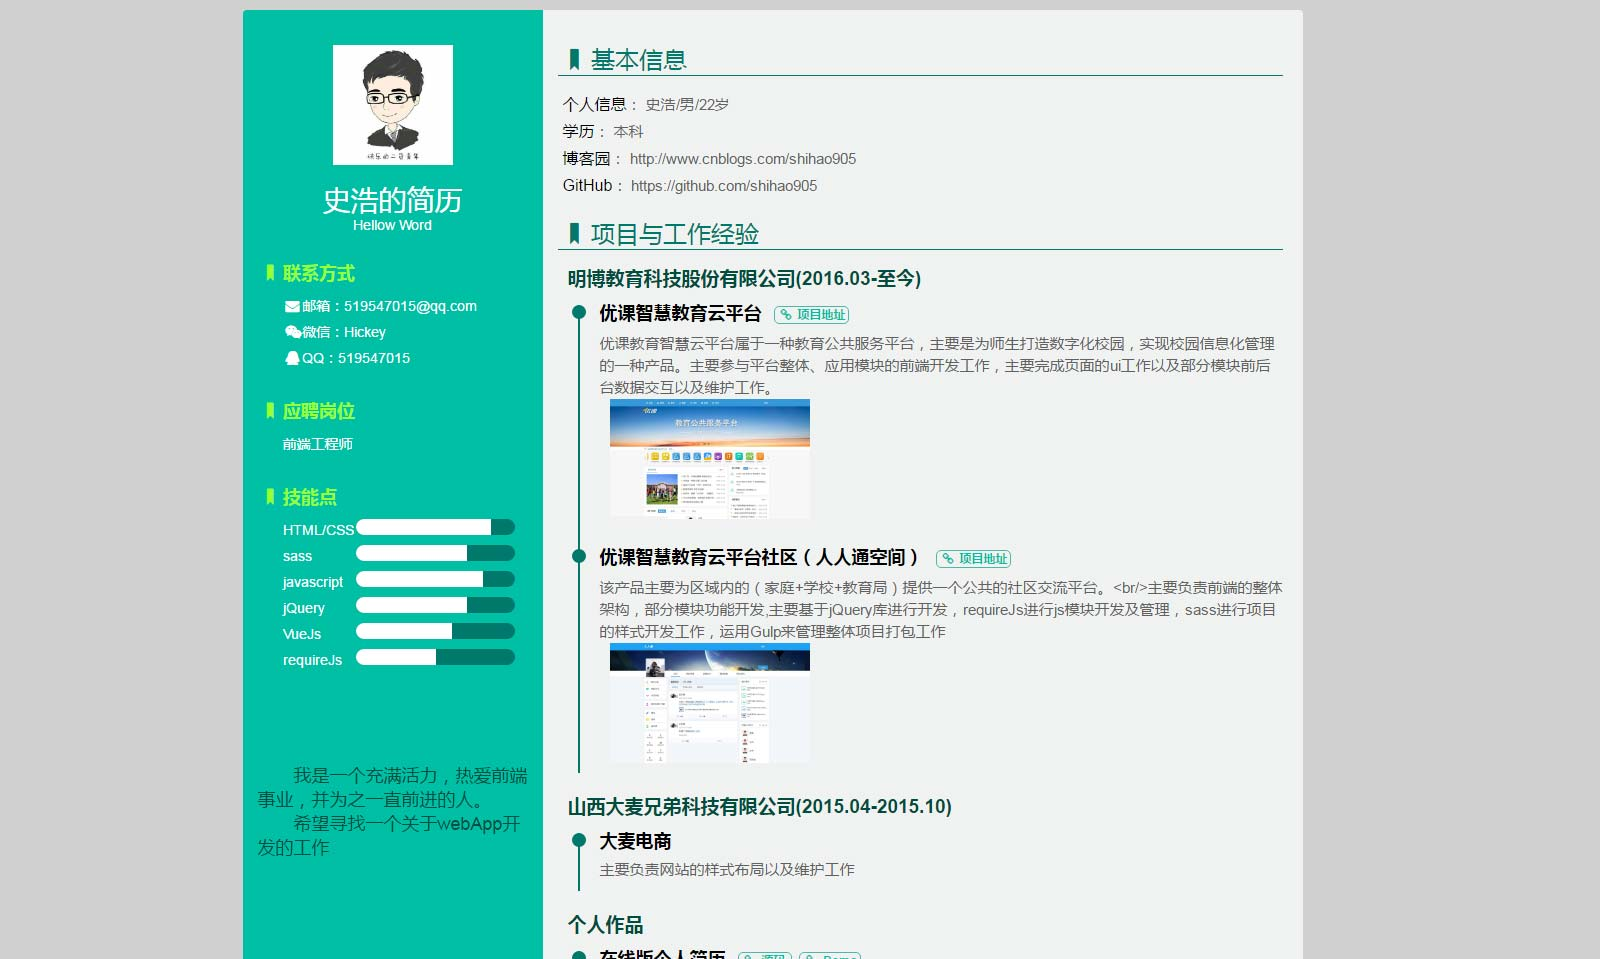
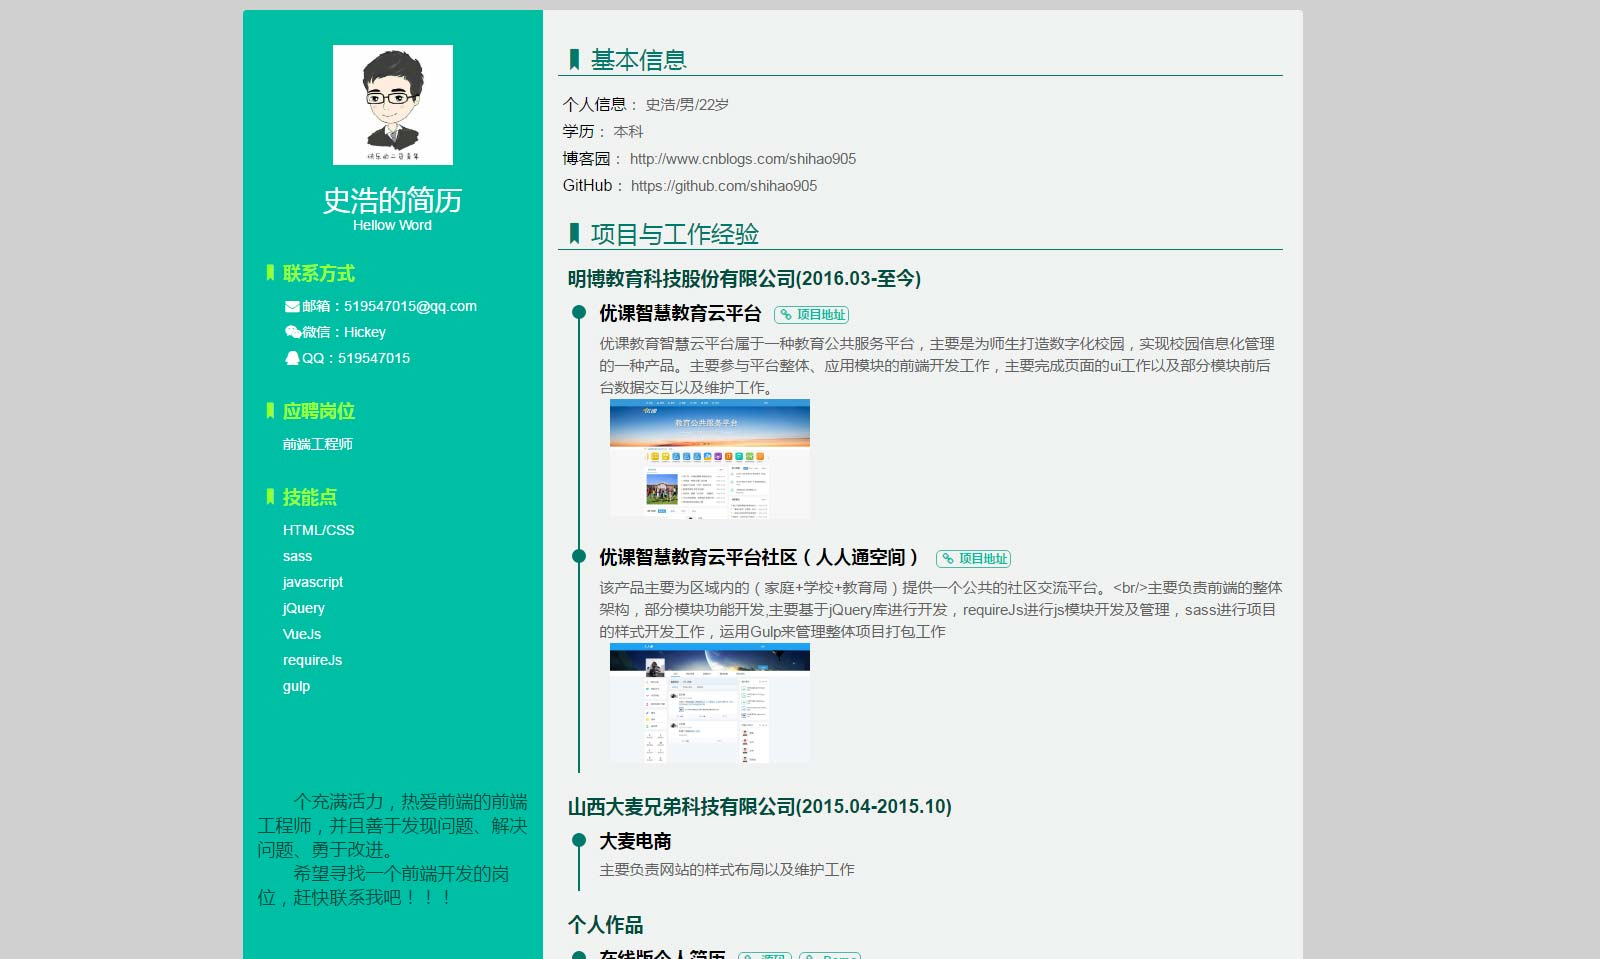
change cv

Changed region(s): [[0.1562, 0.7862, 0.3438, 0.9677], [0.2188, 0.5141, 0.3438, 0.6955], [0.1562, 0.6955, 0.1875, 0.7258]]

diff --git a/dist/js/json.min.js b/dist/js/json.min.js
@@ -1,1 +1,1 @@
-var hickey_json={infor:{cvName:"史浩的简历",description:"Hellow Word",job:"前端工程师"},inforList:[{title:"个人信息",msg:"史浩/男/22岁"},{title:"学历",msg:"本科"},{title:"博客园",msg:"http://www.cnblogs.com/shihao905",url:"http://www.cnblogs.com/shihao905"},{title:"GitHub",msg:"https://github.com/shihao905",url:"https://github.com/shihao905"}],contactMe:[{className:{"icon-mail-alt":!0},title:"邮箱",address:"519547015@qq.com"},{className:{"icon-wechat":!0},title:"微信",address:"Hickey"},{className:{"icon-qq":!0},title:"QQ",address:"519547015"}],skill:[{title:"HTML/CSS",length:"85%"},{title:"sass",length:"70%"},{title:"javascript",length:"80%"},{title:"jQuery",length:"70%"},{title:"VueJs",length:"60%"},{title:"requireJs",length:"50%"}],note:["我是一个充满活力，热爱前端事业，并为之一直前进的人。","希望寻找一个关于webApp开发的工作"],project:[{type:"明博教育科技股份有限公司(2016.03-至今)",list:[{name:"优课智慧教育云平台",msg:"优课教育智慧云平台属于一种教育公共服务平台，主要是为师生打造数字化校园，实现校园信息化管理的一种产品。主要参与平台整体、应用模块的前端开发工作，主要完成页面的ui工作以及部分模块前后台数据交互以及维护工作。",links:[{title:"项目地址",url:"http://demo2.yun.myuclass.com/"}],images:["./dist/images/pt.jpg"]},{name:"优课智慧教育云平台社区（人人通空间）",msg:"该产品主要为区域内的（家庭+学校+教育局）提供一个公共的社区交流平台。<br/>主要负责前端的整体架构，部分模块功能开发,主要基于jQuery库进行开发，requireJs进行js模块开发及管理，sass进行项目的样式开发工作，运用Gulp来管理整体项目打包工作",links:[{title:"项目地址",url:"http://demo2.yun.myuclass.com/renrentong/JCenterHome/home/index.html?spaceId=832c786dbce8407488b0ebc7050319dd&spaceType=2"}],images:["./dist/images/rrt.jpg"]}]},{type:"山西大麦兄弟科技有限公司(2015.04-2015.10)",list:[{name:"大麦电商",msg:"主要负责网站的样式布局以及维护工作"}]},{type:"个人作品",list:[{name:"在线版个人简历",msg:"基于 sass+vueJs+gulp 构建的在线版个人简历",links:[{title:"源码",url:"https://github.com/shihao905/cv"},{title:"Demo",url:"https://shihao905.github.io/cv/"}],images:["./dist/images/cv.jpg"]},{name:"经典游戏-扫雷",msg:"基于原生js还原经典小游戏-扫雷，支持初级、中级、高级三种难度",links:[{title:"源码",url:"https://github.com/shihao905/mineGame"},{title:"Demo",url:"https://shihao905.github.io/mineGame/"}],images:["./dist/images/mine1.jpg","./dist/images/mine2.jpg"]},{name:"一个多功能的分页插件",msg:"基于原生js,面向对象开发的多功能分页插件",links:[{title:"源码",url:"https://github.com/shihao905/paging"},{title:"Demo",url:"https://shihao905.github.io/paging/"}]},{name:"仿天猫首页",msg:"基于HTML+CSS布局，兼容ie6+以及现代浏览器",links:[{title:"源码",url:"https://github.com/shihao905/tmall"},{title:"Demo",url:"https://shihao905.github.io/tmall"}],images:["./dist/images/tmall1.jpg","./dist/images/tmall2.jpg"]},{name:"仿移动端天猫首页",msg:"基于HTML+CSS布局，适配大部分移动端产品",links:[{title:"源码",url:"https://github.com/shihao905/tmallmobiles"},{title:"Demo",url:"https://shihao905.github.io/tmallmobiles/"}],images:["./dist/images/tmallm.jpg"]},{name:"响应式网站",msg:"基于CSS媒体查询布局，适配PC端+移动端",links:[{title:"源码",url:"https://github.com/shihao905/Responsive"},{title:"Demo",url:"https://shihao905.github.io/Responsive/"}],images:["./dist/images/xy.jpg"]}]}]};
+var hickey_json={infor:{cvName:"史浩的简历",description:"Hellow Word",job:"前端工程师"},inforList:[{title:"个人信息",msg:"史浩/男/22岁"},{title:"学历",msg:"本科"},{title:"博客园",msg:"http://www.cnblogs.com/shihao905",url:"http://www.cnblogs.com/shihao905"},{title:"GitHub",msg:"https://github.com/shihao905",url:"https://github.com/shihao905"}],contactMe:[{className:{"icon-mail-alt":!0},title:"邮箱",address:"519547015@qq.com"},{className:{"icon-wechat":!0},title:"微信",address:"Hickey"},{className:{"icon-qq":!0},title:"QQ",address:"519547015"}],skill:[{title:"HTML/CSS",length:"70%"},{title:"sass",length:"55%"},{title:"javascript",length:"65%"},{title:"jQuery",length:"55%"},{title:"VueJs",length:"45%"},{title:"requireJs",length:"30%"},{title:"gulp",length:"30%"}],note:["个充满活力，热爱前端的前端工程师，并且善于发现问题、解决问题、勇于改进。","希望寻找一个前端开发的岗位，赶快联系我吧！！！"],project:[{type:"明博教育科技股份有限公司(2016.03-至今)",list:[{name:"优课智慧教育云平台",msg:"优课教育智慧云平台属于一种教育公共服务平台，主要是为师生打造数字化校园，实现校园信息化管理的一种产品。主要参与平台整体、应用模块的前端开发工作，主要完成页面的ui工作以及部分模块前后台数据交互以及维护工作。",links:[{title:"项目地址",url:"http://demo2.yun.myuclass.com/"}],images:["./dist/images/pt.jpg"]},{name:"优课智慧教育云平台社区（人人通空间）",msg:"该产品主要为区域内的（家庭+学校+教育局）提供一个公共的社区交流平台。<br/>主要负责前端的整体架构，部分模块功能开发,主要基于jQuery库进行开发，requireJs进行js模块开发及管理，sass进行项目的样式开发工作，运用Gulp来管理整体项目打包工作",links:[{title:"项目地址",url:"http://demo2.yun.myuclass.com/renrentong/JCenterHome/home/index.html?spaceId=832c786dbce8407488b0ebc7050319dd&spaceType=2"}],images:["./dist/images/rrt.jpg"]}]},{type:"山西大麦兄弟科技有限公司(2015.04-2015.10)",list:[{name:"大麦电商",msg:"主要负责网站的样式布局以及维护工作"}]},{type:"个人作品",list:[{name:"在线版个人简历",msg:"基于 sass+vueJs+gulp 构建的在线版个人简历",links:[{title:"源码",url:"https://github.com/shihao905/cv"},{title:"Demo",url:"https://shihao905.github.io/cv/"}],images:["./dist/images/cv.jpg"]},{name:"经典游戏-扫雷",msg:"基于原生js还原经典小游戏-扫雷，支持初级、中级、高级三种难度",links:[{title:"源码",url:"https://github.com/shihao905/mineGame"},{title:"Demo",url:"https://shihao905.github.io/mineGame/"}],images:["./dist/images/mine1.jpg","./dist/images/mine2.jpg"]},{name:"一个多功能的分页插件",msg:"基于原生js,面向对象开发的多功能分页插件",links:[{title:"源码",url:"https://github.com/shihao905/paging"},{title:"Demo",url:"https://shihao905.github.io/paging/"}]},{name:"仿天猫首页",msg:"基于HTML+CSS布局，兼容ie6+以及现代浏览器",links:[{title:"源码",url:"https://github.com/shihao905/tmall"},{title:"Demo",url:"https://shihao905.github.io/tmall"}],images:["./dist/images/tmall1.jpg","./dist/images/tmall2.jpg"]},{name:"仿移动端天猫首页",msg:"基于HTML+CSS布局，适配大部分移动端产品",links:[{title:"源码",url:"https://github.com/shihao905/tmallmobiles"},{title:"Demo",url:"https://shihao905.github.io/tmallmobiles/"}],images:["./dist/images/tmallm.jpg"]},{name:"响应式网站",msg:"基于CSS媒体查询布局，适配PC端+移动端",links:[{title:"源码",url:"https://github.com/shihao905/Responsive"},{title:"Demo",url:"https://shihao905.github.io/Responsive/"}],images:["./dist/images/xy.jpg"]}]}],navList:[{title:"源代码",url:"https://github.com/shihao905/cv"},{title:"博客园",url:"http://www.cnblogs.com/shihao905"},{title:"GitHub",url:"https://github.com/shihao905"}]};

diff --git a/dist/css/index.min.css b/dist/css/index.min.css
@@ -1,1 +1,1 @@
-@charset "UTF-8";body,dd,dl,form,h1,h2,h3,h4,h5,h6,input,ol,p,td,textarea,th,ul{margin:0;padding:0}em{font-style:normal}li{list-style:none}a{text-decoration:none}img{vertical-align:top;border:none}table{border-collapse:collapse;border-spacing:0}textarea{resize:none;overflow:auto}input,textarea{outline:0}a,body,button,input,select,textarea{font-family:'Helvetica Neue',Helvetica,'Lucida Grande',Arial,'Hiragino Sans GB',微软雅黑,'WenQuanYi Micro Hei',STHeiti,SimSun,sans-serif;color:#616161;font-size:15px}.clearFix{zoom:1}.clearFix:after{content:"";display:block;clear:both}body{background:#d0d0d0}#content{width:1060px;margin:10px auto;border-radius:4px;overflow:hidden;visibility:hidden;position:relative}#sidebar{position:absolute;top:0;left:0;padding:15px;width:270px;height:100%;background:#00bfa5;color:#fff}#sidebar .header{text-align:center}#sidebar .header .logo{display:block;margin:20px auto 15px;width:120px;height:120px}#sidebar .header .name{font-size:28px;font-weight:400}#sidebar .header .description,#sidebar .side{font-size:14px}#sidebar .side{padding-top:20px;line-height:26px;color:#fff}#sidebar .side ul{padding-left:25px}#sidebar .side .title{font-size:18px;color:#9f3;line-height:40px}#sidebar .side .type{float:left;width:30%}#sidebar .side .bar{float:left;width:65%;background:#00796b;height:16px;margin-top:2px;border-radius:8px;overflow:hidden;position:relative}#sidebar .side .childBar{height:100%;position:absolute;top:0;left:0;background:#fff}#sidebar .note{text-indent:2em;margin-top:90px;color:#004d40;font-size:18px}#main{float:right;width:720px;padding:15px 20px;background:#f0f2f1;color:#616161}#main h2{font-size:24px;color:#00796b;line-height:30px;border-bottom:1px solid #00796b;margin:0 0 15px -5px;font-weight:400}#main h3{font-size:19px;color:#004d40;margin:0 0 15px 5px}#main h4{line-height:26px;font-size:18px;bottom:3px;color:#000}#main .link{color:#00bfa5;font-size:12px;border:1px solid #4db6ac;padding:1px 3px;border-radius:5px;margin-left:7px}#main .proList{border-left:2px solid #00796b;margin-left:15px}#main .proList li{position:relative;top:-5px;margin:0 0 20px 20px}#main .proDes{font-size:15px;line-height:22px;margin-bottom:3px;padding:5px 0}#main .proDes img{width:200px;margin:0 10px}#main .circle{height:14px;width:14px;border-radius:100%;background:#00796b;float:left;position:absolute;left:-28px;top:5px}#main .section{padding-top:20px}#main .infor{font-size:15px;line-height:27px}#main .infor .title{color:#000;font-size:16px}
+@charset "UTF-8";#footer,#sidebar .header{text-align:center}body,dd,dl,form,h1,h2,h3,h4,h5,h6,input,ol,p,td,textarea,th,ul{margin:0;padding:0}em{font-style:normal}li{list-style:none}a{text-decoration:none}img{vertical-align:top;border:none}table{border-collapse:collapse;border-spacing:0}textarea{resize:none;overflow:auto}input,textarea{outline:0}a,body,button,input,select,textarea{font-family:'Helvetica Neue',Helvetica,'Lucida Grande',Arial,'Hiragino Sans GB',微软雅黑,'WenQuanYi Micro Hei',STHeiti,SimSun,sans-serif;color:#616161;font-size:15px}.clearFix{zoom:1}.clearFix:after{content:"";display:block;clear:both}body{background:#d0d0d0}#content{width:1060px;margin:10px auto;border-radius:4px;overflow:hidden;visibility:hidden;position:relative}#sidebar{position:absolute;top:0;left:0;padding:15px;width:270px;height:100%;background:#00bfa5;color:#fff}#sidebar .header .logo{display:block;margin:20px auto 15px;width:120px;height:120px}#sidebar .header .name{font-size:28px;font-weight:400}#sidebar .header .description,#sidebar .side{font-size:14px}#sidebar .side{padding-top:20px;line-height:26px;color:#fff}#sidebar .side ul{padding-left:25px}#sidebar .side .title{font-size:18px;color:#9f3;line-height:40px}#sidebar .side .type{float:left;width:30%}#sidebar .side .bar{float:left;width:65%;background:#00796b;height:16px;margin-top:2px;border-radius:8px;overflow:hidden;position:relative}#sidebar .side .childBar{height:100%;position:absolute;top:0;left:0;background:#fff}#sidebar .note{text-indent:2em;margin-top:90px;color:#004d40;font-size:18px}#main{float:right;width:720px;padding:15px 20px;background:#f0f2f1;color:#616161}#main h2{font-size:24px;color:#00796b;line-height:30px;border-bottom:1px solid #00796b;margin:0 0 15px -5px;font-weight:400}#main h3{font-size:19px;color:#004d40;margin:0 0 15px 5px}#main h4{line-height:26px;font-size:18px;bottom:3px;color:#000}#main .link{color:#00bfa5;font-size:12px;border:1px solid #4db6ac;padding:1px 3px;border-radius:5px;margin-left:7px}#main .proList{border-left:2px solid #00796b;margin-left:15px}#main .proList li{position:relative;top:-5px;margin:0 0 20px 20px}#main .proDes{font-size:15px;line-height:22px;margin-bottom:3px;padding:5px 0}#main .proDes img{width:200px;margin:0 10px}#main .circle{height:14px;width:14px;border-radius:100%;background:#00796b;float:left;position:absolute;left:-28px;top:5px}#main .section{padding-top:20px}#main .infor{font-size:15px;line-height:27px}#main .infor .title{color:#000;font-size:16px}#footer{margin:20px 0}#footer a{color:#3598d8}#listNav{position:fixed;top:50%;right:0;margin-top:-80px}#listNav li{margin-bottom:20px;background:#00bfa5;overflow:hidden;border-radius:10px 0 0 10px;box-shadow:0 2px 2px 0 rgba(0,0,0,.14),0 3px 1px -2px rgba(0,0,0,.2),0 1px 5px 0 rgba(0,0,0,.12)}#listNav a{display:inline-block;width:80px;height:38px;line-height:38px;padding-left:10px;color:#fff}

diff --git a/index.html b/index.html
@@ -5,10 +5,10 @@
         <meta http-equiv="X-UA-Compatible" content="IE=Edge">
         <meta name="renderer" content="webkit|ie-comp|ie-stand">    
         <title>史浩的简历</title>
-        <link rel="stylesheet" href="dist/css/fontello.min.css?v=b817d3a8f9">
-        <link rel="stylesheet" href="dist/css/index.min.css?v=f4da352d92">
+        <link rel="stylesheet" href="dist/css/fontello.min.css?v=b817d3a8f9?v=b817d3a8f9">
+        <link rel="stylesheet" href="dist/css/index.min.css?v=f4da352d92?v=f4da352d92">
         <script src="lib/js/vue.min.js"></script>
-        <script src="dist/js/json.min.js?v=51f82ebbbe"></script>
+        <script src="dist/js/json.min.js?v=93a0e955b2?v=5d0f474814"></script>
     </head>
     <body>
         <div id="content" class="clearFix">
@@ -40,7 +40,7 @@
                     <ul>
                         <li v-for="item in skill" class="clearFix">
                             <span class="type">{{item.title}}</span>
-                            <span class="bar"><span class="childBar" v-bind:style="{width: item.length}"></span></span>
+                            <!-- <span class="bar"><span class="childBar" v-bind:style="{width: item.length}"></span></span> -->
                         </li>
                     </ul>
                 </div>
@@ -86,8 +86,13 @@
                     </ul>
                 </div>
             </div>
+            <ul id="listNav">
+                <li v-for="item in navList"><a v-bind:href="item.url" target="_black">{{item.title}}</a></li>
+            </ul>
+        </div>
+        <div id="footer">
+            <p>Theme by <a href="http://html.love/" target="_blank">DIYgod</a>. Made with by <a href="https://shihao905.github.io/cv/" target="_blank">Shihao</a>. 最后更新于2017年2月</p>
         </div>
     </body>
-    
-    <script src="dist/js/index.min.js?v=f12bba57d8"></script>
+    <script src="dist/js/index.min.js?v=f12bba57d8?v=f12bba57d8"></script>
 </html>

diff --git a/src/js/json.js b/src/js/json.js
@@ -43,16 +43,17 @@ var hickey_json = {
 		}
 	],
 	skill:[
-		{title:'HTML/CSS',length:'85%'},
-		{title:'sass',length:'70%'},
-		{title:'javascript',length:'80%'},
-		{title:'jQuery',length:'70%'},
-		{title:'VueJs',length:'60%'},
-		{title:'requireJs',length:'50%'}
+		{title:'HTML/CSS',length:'70%'},
+		{title:'sass',length:'55%'},
+		{title:'javascript',length:'65%'},
+		{title:'jQuery',length:'55%'},
+		{title:'VueJs',length:'45%'},
+		{title:'requireJs',length:'30%'},
+		{title:'gulp',length:'30%'}
 	],
 	note:[
-		'我是一个充满活力，热爱前端事业，并为之一直前进的人。',
-		'希望寻找一个关于webApp开发的工作'
+		'个充满活力，热爱前端的前端工程师，并且善于发现问题、解决问题、勇于改进。',
+		'希望寻找一个前端开发的岗位，赶快联系我吧！！！'
 	],
 	project:[
 		{
@@ -122,6 +123,23 @@ var hickey_json = {
 			]
 		}
 
+	],
+	navList: [
+
+		{
+			title:'源代码',
+			url: 'https://github.com/shihao905/cv'
+		},
+		{
+
+			title:'博客园',
+			url: 'http://www.cnblogs.com/shihao905'
+		},
+		{
+
+			title:'GitHub',
+			url: 'https://github.com/shihao905'
+		}
 	]
 
 }

diff --git a/src/sass/index.scss b/src/sass/index.scss
@@ -161,3 +161,33 @@ body {
 	    }
 	}
 }
+#footer {
+	text-align: center;
+	margin: 20px 0;
+	a {
+		color: #3598d8;
+	}
+}
+#listNav{
+	position: fixed;
+	top: 50%;
+	right: 0;
+	margin-top: -80px;
+	li{
+		margin-bottom: 20px;
+		background: #00bfa5;
+		overflow: hidden;
+	    -webkit-border-radius: 10px 0 0 10px;
+	    border-radius: 10px 0 0 10px;
+	    -webkit-box-shadow: 0 2px 2px 0 rgba(0,0,0,.14), 0 3px 1px -2px rgba(0,0,0,.2), 0 1px 5px 0 rgba(0,0,0,.12);
+	    box-shadow: 0 2px 2px 0 rgba(0,0,0,.14), 0 3px 1px -2px rgba(0,0,0,.2), 0 1px 5px 0 rgba(0,0,0,.12);
+	}
+	a {
+		display: inline-block;
+	    width: 80px;
+	    height: 38px;
+	    line-height: 38px;
+	    padding-left: 10px;
+	    color: #fff;
+	}
+}

diff --git a/src/css/index.css b/src/css/index.css
@@ -173,3 +173,28 @@ body {
     #main .infor .title {
       color: #000;
       font-size: 16px; }
+
+#footer {
+  text-align: center;
+  margin: 20px 0; }
+  #footer a {
+    color: #3598d8; }
+
+#listNav {
+  position: fixed;
+  top: 50%;
+  right: 0;
+  margin-top: -80px; }
+  #listNav li {
+    margin-bottom: 20px;
+    background: #00bfa5;
+    overflow: hidden;
+    border-radius: 10px 0 0 10px;
+    box-shadow: 0 2px 2px 0 rgba(0, 0, 0, 0.14), 0 3px 1px -2px rgba(0, 0, 0, 0.2), 0 1px 5px 0 rgba(0, 0, 0, 0.12); }
+  #listNav a {
+    display: inline-block;
+    width: 80px;
+    height: 38px;
+    line-height: 38px;
+    padding-left: 10px;
+    color: #fff; }

diff --git a/gulpfile.js b/gulpfile.js
@@ -51,7 +51,7 @@ gulp.task('default',['html'],function(){
     
 });
 
-gulp.task('watchSass',function(){
+gulp.task('watch',function(){
     borwserSync.init({
         server:{
         baseDir:'./'
